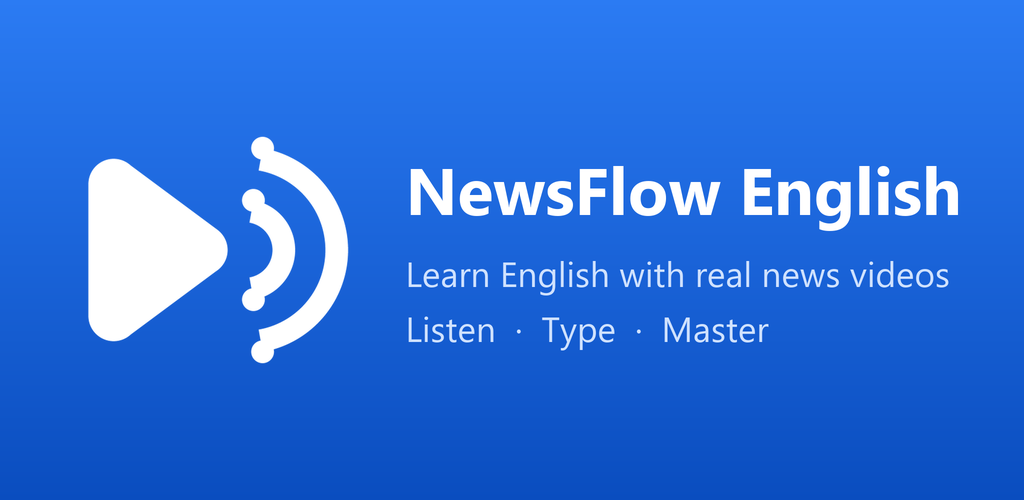
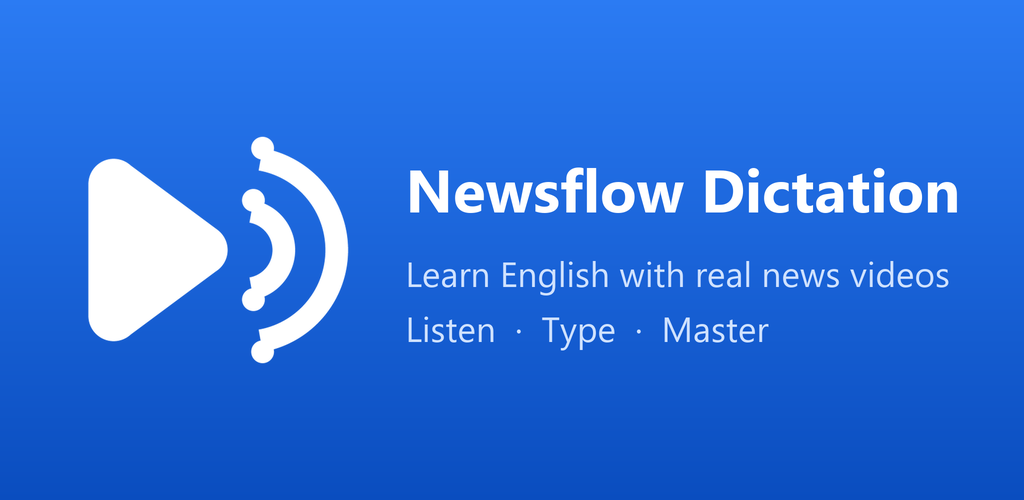
Rename app to Newsflow Dictation, change package to com.newsflowdictation.app
- app_name + UI title: NewsFlow English -> Newsflow Dictation
- applicationId/namespace: com.newsflow.app -> com.newsflowdictation.app
- Moved source tree to com/newsflowdictation/app/
- Updated all Kotlin packages/imports, ProGuard keep rule, README
- Regenerated feature graphic with new name
- Verified: APK package=com.newsflowdictation.app, label='Newsflow Dictation'

Changed region(s): [[0.4062, 0.33, 0.9375, 0.48]]

diff --git a/app/src/main/java/com/newsflowdictation/app/ui/AppRoot.kt b/app/src/main/java/com/newsflowdictation/app/ui/AppRoot.kt
@@ -1,4 +1,4 @@
-package com.newsflow.app.ui
+package com.newsflowdictation.app.ui
 
 import androidx.compose.foundation.layout.Box
 import androidx.compose.foundation.layout.fillMaxSize
@@ -11,18 +11,18 @@ import androidx.compose.material.icons.outlined.Settings
 import androidx.compose.material3.*
 import androidx.compose.runtime.*
 import androidx.compose.ui.Modifier
-import com.newsflow.app.ui.screens.NewsListScreen
-import com.newsflow.app.ui.screens.PlayerScreen
-import com.newsflow.app.ui.screens.SettingsScreen
-import com.newsflow.app.ui.screens.UpgradeScreen
-import com.newsflow.app.billing.BillingService
-import com.newsflow.app.billing.PremiumStore
-import com.newsflow.app.data.MockData
-import com.newsflow.app.data.NewsItem
-import com.newsflow.app.data.RemoteLessonService
-import com.newsflow.app.data.SegmentRepository
-import com.newsflow.app.data.SettingsService
-import com.newsflow.app.data.YouTubeService
+import com.newsflowdictation.app.ui.screens.NewsListScreen
+import com.newsflowdictation.app.ui.screens.PlayerScreen
+import com.newsflowdictation.app.ui.screens.SettingsScreen
+import com.newsflowdictation.app.ui.screens.UpgradeScreen
+import com.newsflowdictation.app.billing.BillingService
+import com.newsflowdictation.app.billing.PremiumStore
+import com.newsflowdictation.app.data.MockData
+import com.newsflowdictation.app.data.NewsItem
+import com.newsflowdictation.app.data.RemoteLessonService
+import com.newsflowdictation.app.data.SegmentRepository
+import com.newsflowdictation.app.data.SettingsService
+import com.newsflowdictation.app.data.YouTubeService
 import androidx.compose.ui.platform.LocalContext
 import com.android.billingclient.api.ProductDetails
 

diff --git a/app/src/main/java/com/newsflowdictation/app/ui/screens/NewsListScreen.kt b/app/src/main/java/com/newsflowdictation/app/ui/screens/NewsListScreen.kt
@@ -1,4 +1,4 @@
-package com.newsflow.app.ui.screens
+package com.newsflowdictation.app.ui.screens
 
 import androidx.compose.foundation.layout.*
 import androidx.compose.foundation.lazy.LazyColumn
@@ -18,9 +18,9 @@ import androidx.compose.ui.text.font.FontWeight
 import androidx.compose.ui.unit.dp
 import androidx.compose.ui.unit.sp
 import coil.compose.AsyncImage
-import com.newsflow.app.ads.AdIds
-import com.newsflow.app.ads.BannerAd
-import com.newsflow.app.data.NewsItem
+import com.newsflowdictation.app.ads.AdIds
+import com.newsflowdictation.app.ads.BannerAd
+import com.newsflowdictation.app.data.NewsItem
 
 @OptIn(ExperimentalMaterial3Api::class)
 @Composable
@@ -57,7 +57,7 @@ fun NewsListScreen(
     Scaffold(
         topBar = {
             TopAppBar(
-                title = { Text("NewsFlow English", fontWeight = FontWeight.Bold) },
+                title = { Text("Newsflow Dictation", fontWeight = FontWeight.Bold) },
                 actions = {
                     IconButton(onClick = { }) {
                         Icon(Icons.Default.Refresh, contentDescription = "Refresh")

diff --git a/app/src/main/java/com/newsflowdictation/app/ui/screens/SettingsScreen.kt b/app/src/main/java/com/newsflowdictation/app/ui/screens/SettingsScreen.kt
@@ -1,4 +1,4 @@
-package com.newsflow.app.ui.screens
+package com.newsflowdictation.app.ui.screens
 
 import androidx.compose.foundation.layout.*
 import androidx.compose.foundation.layout.FlowRow
@@ -14,9 +14,9 @@ import androidx.compose.ui.Modifier
 import androidx.compose.ui.text.font.FontWeight
 import androidx.compose.ui.unit.dp
 import androidx.compose.ui.unit.sp
-import com.newsflow.app.BuildConfig
-import com.newsflow.app.data.AppLanguages
-import com.newsflow.app.data.SettingsService
+import com.newsflowdictation.app.BuildConfig
+import com.newsflowdictation.app.data.AppLanguages
+import com.newsflowdictation.app.data.SettingsService
 import androidx.compose.foundation.layout.ExperimentalLayoutApi
 
 @OptIn(ExperimentalLayoutApi::class, ExperimentalMaterial3Api::class)

diff --git a/app/src/main/java/com/newsflowdictation/app/ui/screens/PlayerScreen.kt b/app/src/main/java/com/newsflowdictation/app/ui/screens/PlayerScreen.kt
@@ -1,4 +1,4 @@
-package com.newsflow.app.ui.screens
+package com.newsflowdictation.app.ui.screens
 
 import android.Manifest
 import android.content.pm.PackageManager
@@ -42,9 +42,9 @@ import androidx.compose.ui.text.style.TextDecoration
 import androidx.compose.ui.unit.dp
 import androidx.compose.ui.unit.sp
 import androidx.compose.ui.viewinterop.AndroidView
-import com.newsflow.app.data.*
-import com.newsflow.app.ads.AdIds
-import com.newsflow.app.ads.BannerAd
+import com.newsflowdictation.app.data.*
+import com.newsflowdictation.app.ads.AdIds
+import com.newsflowdictation.app.ads.BannerAd
 import androidx.compose.foundation.layout.ExperimentalLayoutApi
 import kotlinx.coroutines.launch
 

diff --git a/app/src/main/java/com/newsflowdictation/app/MainActivity.kt b/app/src/main/java/com/newsflowdictation/app/MainActivity.kt
@@ -1,12 +1,12 @@
-package com.newsflow.app
+package com.newsflowdictation.app
 
 import android.os.Bundle
 import androidx.activity.ComponentActivity
 import androidx.activity.compose.setContent
 import androidx.activity.enableEdgeToEdge
-import com.newsflow.app.ads.AdsConsent
-import com.newsflow.app.ui.AppRoot
-import com.newsflow.app.ui.theme.NewsFlowTheme
+import com.newsflowdictation.app.ads.AdsConsent
+import com.newsflowdictation.app.ui.AppRoot
+import com.newsflowdictation.app.ui.theme.NewsFlowTheme
 
 class MainActivity : ComponentActivity() {
     override fun onCreate(savedInstanceState: Bundle?) {

diff --git a/app/src/main/java/com/newsflowdictation/app/ui/screens/UpgradeScreen.kt b/app/src/main/java/com/newsflowdictation/app/ui/screens/UpgradeScreen.kt
@@ -1,4 +1,4 @@
-package com.newsflow.app.ui.screens
+package com.newsflowdictation.app.ui.screens
 
 import androidx.compose.foundation.BorderStroke
 import androidx.compose.foundation.background
@@ -21,7 +21,7 @@ import androidx.compose.ui.text.style.TextAlign
 import androidx.compose.ui.unit.dp
 import androidx.compose.ui.unit.sp
 import com.android.billingclient.api.ProductDetails
-import com.newsflow.app.billing.PremiumProducts
+import com.newsflowdictation.app.billing.PremiumProducts
 
 /**
  * 付费页（订阅去广告）。

diff --git a/app/src/main/java/com/newsflowdictation/app/ads/AdIds.kt b/app/src/main/java/com/newsflowdictation/app/ads/AdIds.kt
@@ -1,6 +1,6 @@
-package com.newsflow.app.ads
+package com.newsflowdictation.app.ads
 
-import com.newsflow.app.BuildConfig
+import com.newsflowdictation.app.BuildConfig
 
 /**
  * 广告单元 ID 解析。

diff --git a/app/src/main/java/com/newsflowdictation/app/ui/theme/Theme.kt b/app/src/main/java/com/newsflowdictation/app/ui/theme/Theme.kt
@@ -1,4 +1,4 @@
-package com.newsflow.app.ui.theme
+package com.newsflowdictation.app.ui.theme
 
 import androidx.compose.foundation.isSystemInDarkTheme
 import androidx.compose.material3.MaterialTheme

diff --git a/app/src/main/java/com/newsflowdictation/app/data/Models.kt b/app/src/main/java/com/newsflowdictation/app/data/Models.kt
@@ -1,7 +1,7 @@
-package com.newsflow.app.data
+package com.newsflowdictation.app.data
 
 /**
- * Data models for NewsFlow English
+ * Data models for Newsflow Dictation
  */
 
 data class NewsItem(

diff --git a/app/src/main/java/com/newsflowdictation/app/ads/BannerAd.kt b/app/src/main/java/com/newsflowdictation/app/ads/BannerAd.kt
@@ -1,4 +1,4 @@
-package com.newsflow.app.ads
+package com.newsflowdictation.app.ads
 
 import androidx.compose.foundation.layout.fillMaxWidth
 import androidx.compose.foundation.layout.height

diff --git a/app/src/main/java/com/newsflowdictation/app/data/SettingsService.kt b/app/src/main/java/com/newsflowdictation/app/data/SettingsService.kt
@@ -1,4 +1,4 @@
-package com.newsflow.app.data
+package com.newsflowdictation.app.data
 
 import android.content.Context
 import android.content.SharedPreferences

diff --git a/app/src/main/java/com/newsflowdictation/app/data/MockData.kt b/app/src/main/java/com/newsflowdictation/app/data/MockData.kt
@@ -1,4 +1,4 @@
-package com.newsflow.app.data
+package com.newsflowdictation.app.data
 
 /**
  * Fallback demo data, used only when no lesson JSON is bundled in
